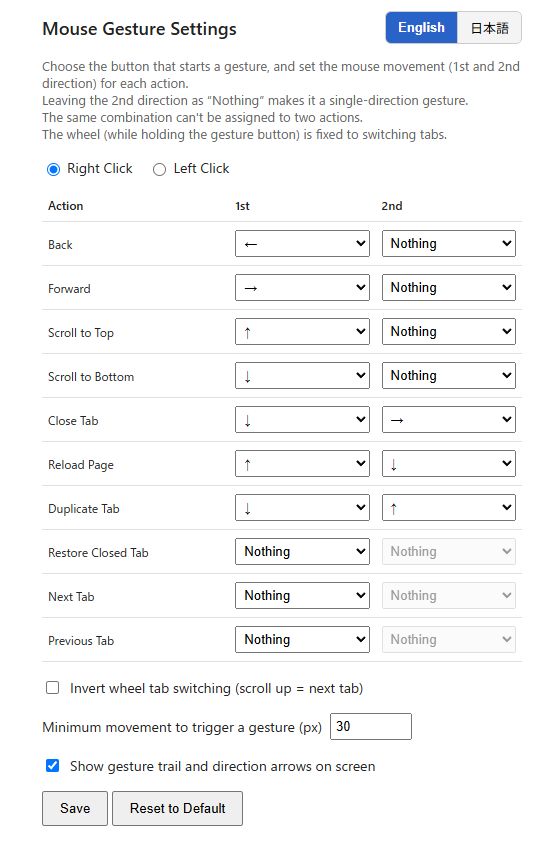
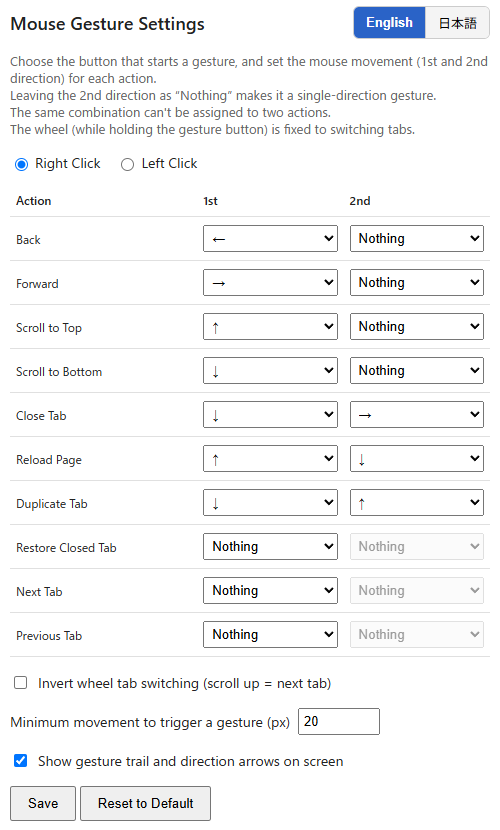
ストア画像編集

Changed region(s): [[0.03, 0.2108, 0.96, 0.994], [0.0, 0.0, 0.99, 0.3012]]

diff --git a/images/make_store_shots.py b/images/make_store_shots.py
@@ -1,0 +1,76 @@
+from PIL import Image, ImageDraw, ImageFilter
+
+PAD = 16          # inner padding between card border and content
+RADIUS = 14        # card corner radius
+BORDER_COLOR = (221, 221, 221, 255)
+BORDER_WIDTH = 1
+GAP = 56           # space between the two cards (divider line sits in the middle)
+SHADOW_MARGIN = 24
+SHADOW_BLUR = 8
+SHADOW_OFFSET_Y = 6
+SHADOW_ALPHA = 70
+TARGET_W, TARGET_H = 1280, 800
+
+
+def make_card(content: Image.Image, card_h: int) -> Image.Image:
+    content = content.convert("RGBA")
+    w, h = content.size
+    card_w = w + 2 * PAD
+    card = Image.new("RGBA", (card_w, card_h), (0, 0, 0, 0))
+    draw = ImageDraw.Draw(card)
+    draw.rounded_rectangle(
+        [0, 0, card_w - 1, card_h - 1],
+        radius=RADIUS,
+        fill=(255, 255, 255, 255),
+    )
+    y_off = PAD + (card_h - 2 * PAD - h) // 2
+    card.paste(content, (PAD, y_off), content)
+    return card
+
+
+def add_shadow(card: Image.Image) -> Image.Image:
+    w, h = card.size
+    layer = Image.new("RGBA", (w + SHADOW_MARGIN * 2, h + SHADOW_MARGIN * 2), (0, 0, 0, 0))
+    sdraw = ImageDraw.Draw(layer)
+    sdraw.rounded_rectangle(
+        [SHADOW_MARGIN, SHADOW_MARGIN + SHADOW_OFFSET_Y,
+         SHADOW_MARGIN + w - 1, SHADOW_MARGIN + SHADOW_OFFSET_Y + h - 1],
+        radius=RADIUS,
+        fill=(0, 0, 0, SHADOW_ALPHA),
+    )
+    layer = layer.filter(ImageFilter.GaussianBlur(SHADOW_BLUR))
+    layer.paste(card, (SHADOW_MARGIN, SHADOW_MARGIN), card)
+    return layer
+
+
+for lang in ["en", "jp"]:
+    top = Image.open(f"images/{lang}-part-top.png")
+    bottom = Image.open(f"images/{lang}-part-bottom.png")
+    card_h = max(top.size[1], bottom.size[1]) + 2 * PAD
+
+    left_card = add_shadow(make_card(top, card_h))
+    right_card = add_shadow(make_card(bottom, card_h))
+
+    lw, lh = left_card.size
+    rw, rh = right_card.size
+
+    content_w = lw + GAP + rw
+    content_h = max(lh, rh)
+
+    composite = Image.new("RGBA", (content_w, content_h), (0, 0, 0, 0))
+    composite.paste(left_card, (0, 0), left_card)
+    composite.paste(right_card, (lw + GAP, 0), right_card)
+
+    # flatten onto white
+    flat = Image.new("RGB", composite.size, "white")
+    flat.paste(composite, (0, 0), composite)
+    flat.save(f"images/{lang}-store.png")
+
+    # No scaling: keep native resolution (crisp, no resample blur) and just
+    # pad with whitespace on every side to reach the exact store size.
+    canvas = Image.new("RGB", (TARGET_W, TARGET_H), "white")
+    x_off = (TARGET_W - flat.size[0]) // 2
+    y_off = (TARGET_H - flat.size[1]) // 2
+    canvas.paste(flat, (max(x_off, 0), max(y_off, 0)))
+    canvas.save(f"images/{lang}-store-1280x800.png")
+    print(lang, "composite", flat.size, "-> final", canvas.size)
